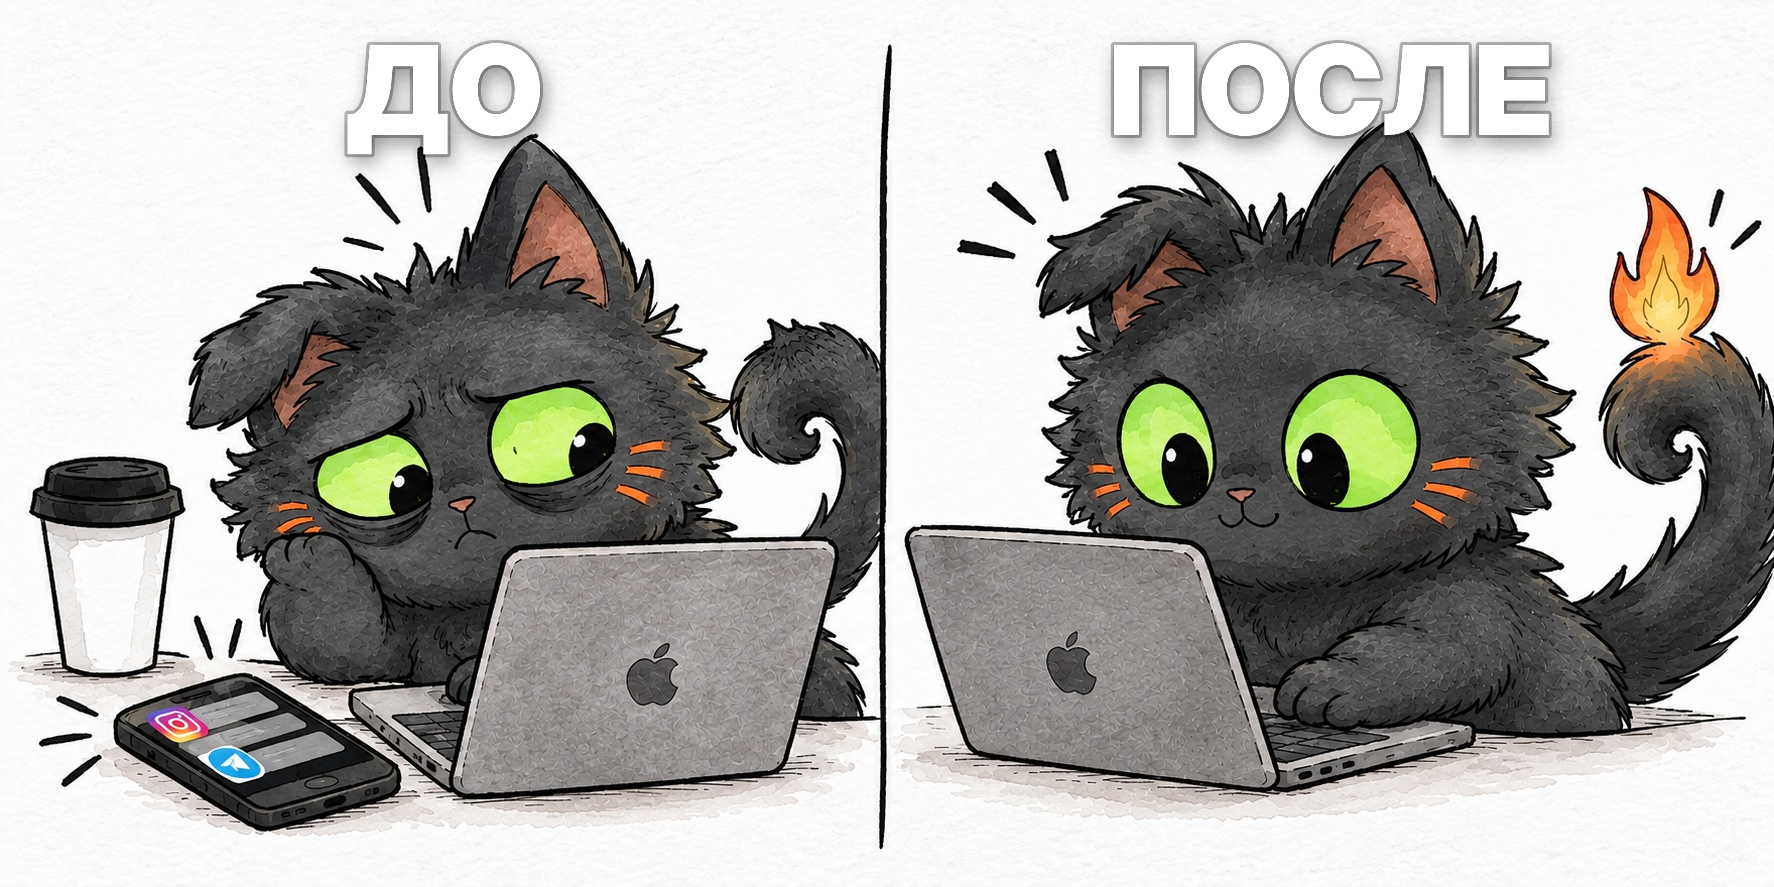
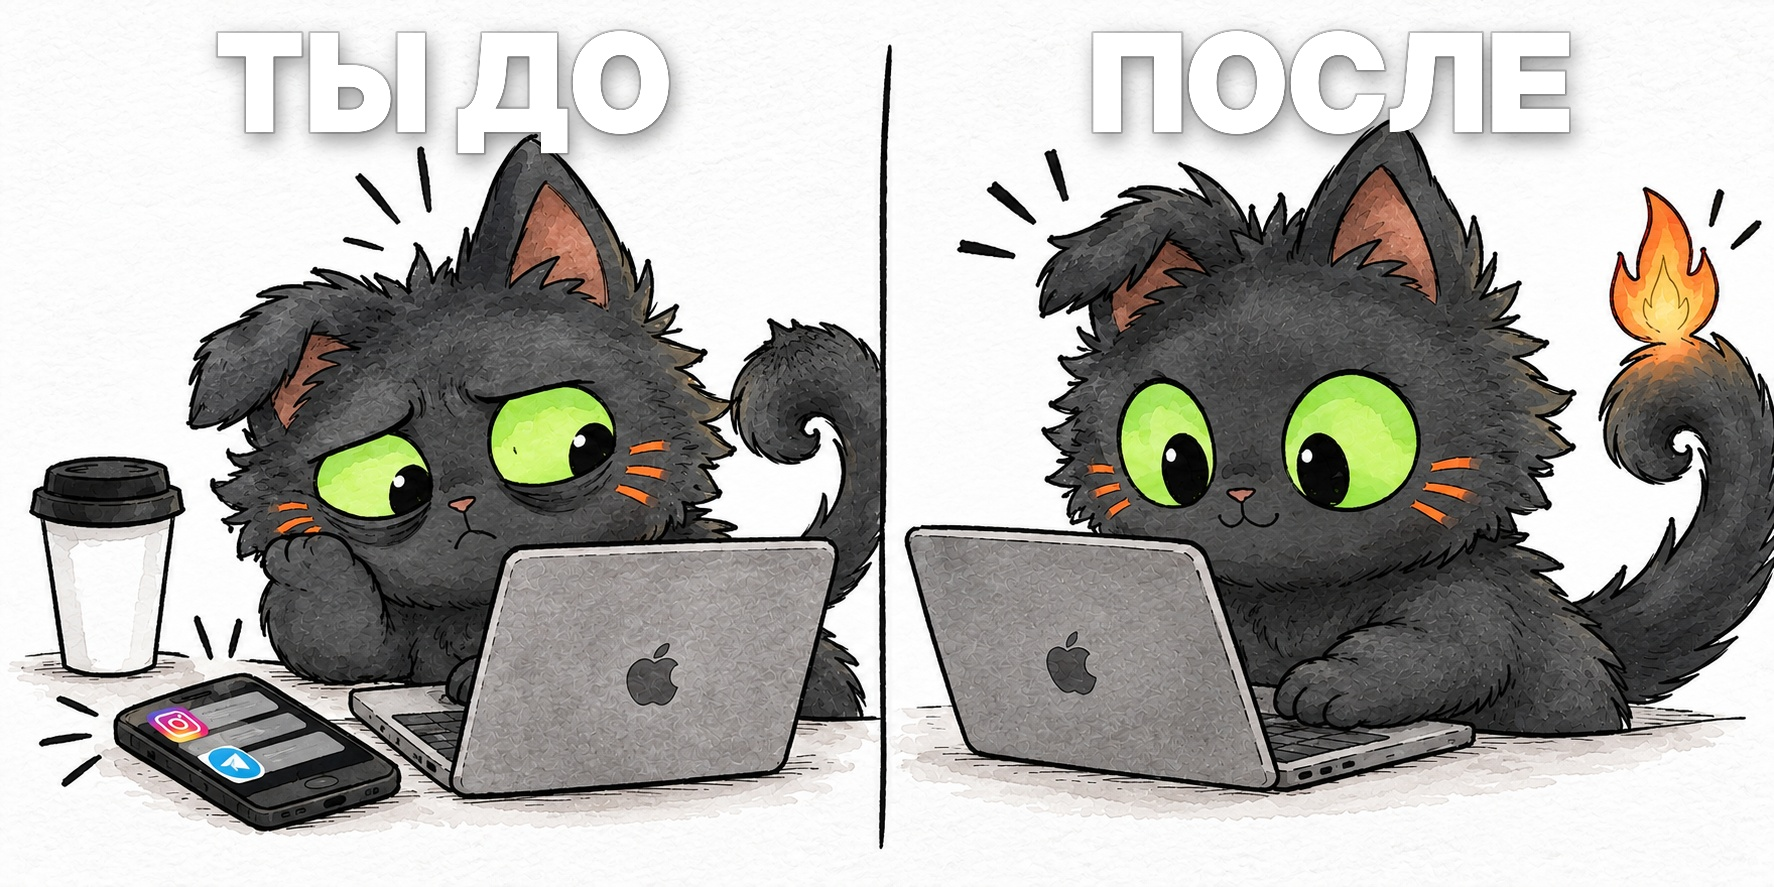
L02 thumbnail: ТЫ ДО / ПОСЛЕ, slightly larger, fainter outline
Claude-Session: https://claude.ai/code/session_01WL83YHdupNJiw52fjyDVVG

Changed region(s): [[0.124, 0.0304, 0.403, 0.1826], [0.6201, 0.0304, 0.8991, 0.1826]]

diff --git a/videos/L02_otvlechenie/thumb/text.py b/videos/L02_otvlechenie/thumb/text.py
@@ -5,13 +5,13 @@ from PIL import Image, ImageDraw, ImageFilter, ImageFont
 base = Image.open(sys.argv[1]).convert("RGBA"); out = sys.argv[2]
 shadow_a = int(sys.argv[3]) if len(sys.argv) > 3 else 90
 W, H = base.size
-F = ImageFont.truetype("/usr/share/fonts/opentype/inter/InterDisplay-Black.otf", 124)
+F = ImageFont.truetype("/usr/share/fonts/opentype/inter/InterDisplay-Black.otf", 136)
 layer = Image.new("RGBA", base.size, (0, 0, 0, 0)); sh = Image.new("RGBA", base.size, (0, 0, 0, 0))
-for txt, cx in (("ДО", W * 0.25), ("ПОСЛЕ", W * 0.75)):
+for txt, cx in (("ТЫ ДО", W * 0.25), ("ПОСЛЕ", W * 0.75)):
     d = ImageDraw.Draw(layer); ds = ImageDraw.Draw(sh)
-    w = d.textlength(txt, font=F); x, y = cx - w / 2, 14
+    w = d.textlength(txt, font=F); x, y = cx - w / 2, 0
     ds.text((x + 4, y + 8), txt, font=F, fill=(0, 0, 0, shadow_a))
-    d.text((x, y), txt, font=F, fill=(255, 255, 255, 255), stroke_width=3, stroke_fill=(0, 0, 0, 70))
+    d.text((x, y), txt, font=F, fill=(255, 255, 255, 255), stroke_width=2, stroke_fill=(0, 0, 0, 50))
     d.text((x, y), txt, font=F, fill=(255, 255, 255, 255))
 sh = sh.filter(ImageFilter.GaussianBlur(10))
 Image.alpha_composite(Image.alpha_composite(base, sh), layer).convert("RGB").save(out, quality=95)
